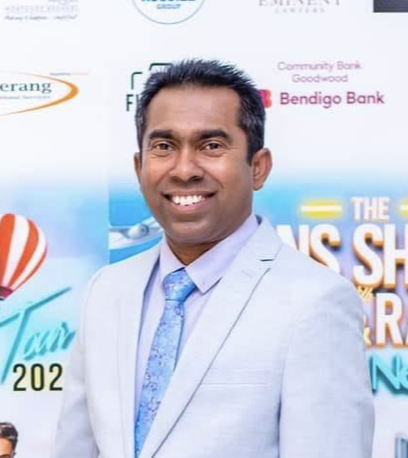
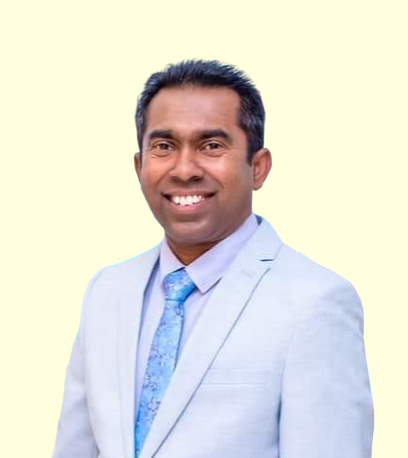
first

diff --git a/aboutus/index.html b/aboutus/index.html
@@ -1179,7 +1179,7 @@ body{--wp--preset--color--black: #000000;--wp--preset--color--cyan-bluish-gray: 
 			<div class="elementor-widget-wrap elementor-element-populated">
 								<div class="elementor-element elementor-element-1885a203 elementor-invisible elementor-widget elementor-widget-image" data-id="1885a203" data-element_type="widget" data-settings="{&quot;_animation&quot;:&quot;fadeInUp&quot;}" data-widget_type="image.default">
 				<div class="elementor-widget-container">
-				<img decoding="async" width="422" height="420" src="../Images/anujvashisht.JPG" class="attachment-full size-full wp-image-318" alt="" loading="lazy"
+				<img decoding="async" width="422" height="420" src="../Images/anuj Vashisht.png" class="attachment-full size-full wp-image-318" alt="" loading="lazy"
 				 sizes="(max-width: 422px) 100vw, 422px" />			
 																</div>
 				</div>
@@ -1193,7 +1193,7 @@ body{--wp--preset--color--black: #000000;--wp--preset--color--cyan-bluish-gray: 
 			<div class="elementor-widget-wrap elementor-element-populated">
 								<div class="elementor-element elementor-element-1c584db elementor-invisible elementor-widget elementor-widget-image" data-id="1c584db" data-element_type="widget" data-settings="{&quot;_animation&quot;:&quot;fadeInUp&quot;}" data-widget_type="image.default">
 				<div class="elementor-widget-container">
-			<img decoding="async" width="422" height="420" src="../Images/sk Vashisht photo.JPG" class="attachment-full size-full wp-image-317" alt="" loading="lazy" 
+			<img decoding="async" width="422" height="420" src="../Images/sk Vashisht.png" class="attachment-full size-full wp-image-317" alt="" loading="lazy" 
 			 sizes="(max-width: 422px) 100vw, 422px" />															</div>
 				</div>
 					</div>
@@ -1241,7 +1241,7 @@ body{--wp--preset--color--black: #000000;--wp--preset--color--cyan-bluish-gray: 
 			<div class="elementor-widget-wrap elementor-element-populated">
 								<div class="elementor-element elementor-element-ed171d4 elementor-invisible elementor-widget elementor-widget-image" data-id="ed171d4" data-element_type="widget" data-settings="{&quot;_animation&quot;:&quot;fadeInUp&quot;}" data-widget_type="image.default">
 				<div class="elementor-widget-container">
-<img decoding="async" width="422" height="420" src="../Images/meenakshi vashisht.JPG" class="attachment-full size-full wp-image-942" alt="" loading="lazy"
+<img decoding="async" width="422" height="420" src="../Images/meenakshi vashisht.png" class="attachment-full size-full wp-image-942" alt="" loading="lazy"
  sizes="(max-width: 422px) 100vw, 422px" />															</div>
 				</div>
 					</div>
@@ -1301,7 +1301,7 @@ body{--wp--preset--color--black: #000000;--wp--preset--color--cyan-bluish-gray: 
 <div class="elementor-widget-wrap elementor-element-populated">
 			<div class="elementor-element elementor-element-ed171d4 elementor-invisible elementor-widget elementor-widget-image" data-id="ed171d4" data-element_type="widget" data-settings="{&quot;_animation&quot;:&quot;fadeInUp&quot;}" data-widget_type="image.default">
 <div class="elementor-widget-container">
-<img decoding="async" width="422" height="420" src="../Images/chatturanga photo.JPG" class="attachment-full size-full wp-image-942" alt="" loading="lazy"
+<img decoding="async" width="422" height="420" src="../Images/chatturanga.png" class="attachment-full size-full wp-image-942" alt="" loading="lazy"
 sizes="(max-width: 422px) 100vw, 422px" />															</div>
 </div>
 </div>
@@ -1314,7 +1314,7 @@ sizes="(max-width: 422px) 100vw, 422px" />															</div>
 <div class="elementor-widget-wrap elementor-element-populated">
 			<div class="elementor-element elementor-element-1c584db elementor-invisible elementor-widget elementor-widget-image" data-id="1c584db" data-element_type="widget" data-settings="{&quot;_animation&quot;:&quot;fadeInUp&quot;}" data-widget_type="image.default">
 <div class="elementor-widget-container">
-<img decoding="async" width="422" height="420" src="../Images/usha photo.JPG" class="attachment-full size-full wp-image-317" alt="" loading="lazy"
+<img decoding="async" width="422" height="420" src="../Images/usha.png" class="attachment-full size-full wp-image-317" alt="" loading="lazy"
 sizes="(max-width: 422px) 100vw, 422px" />															</div>
 </div>
 </div>
